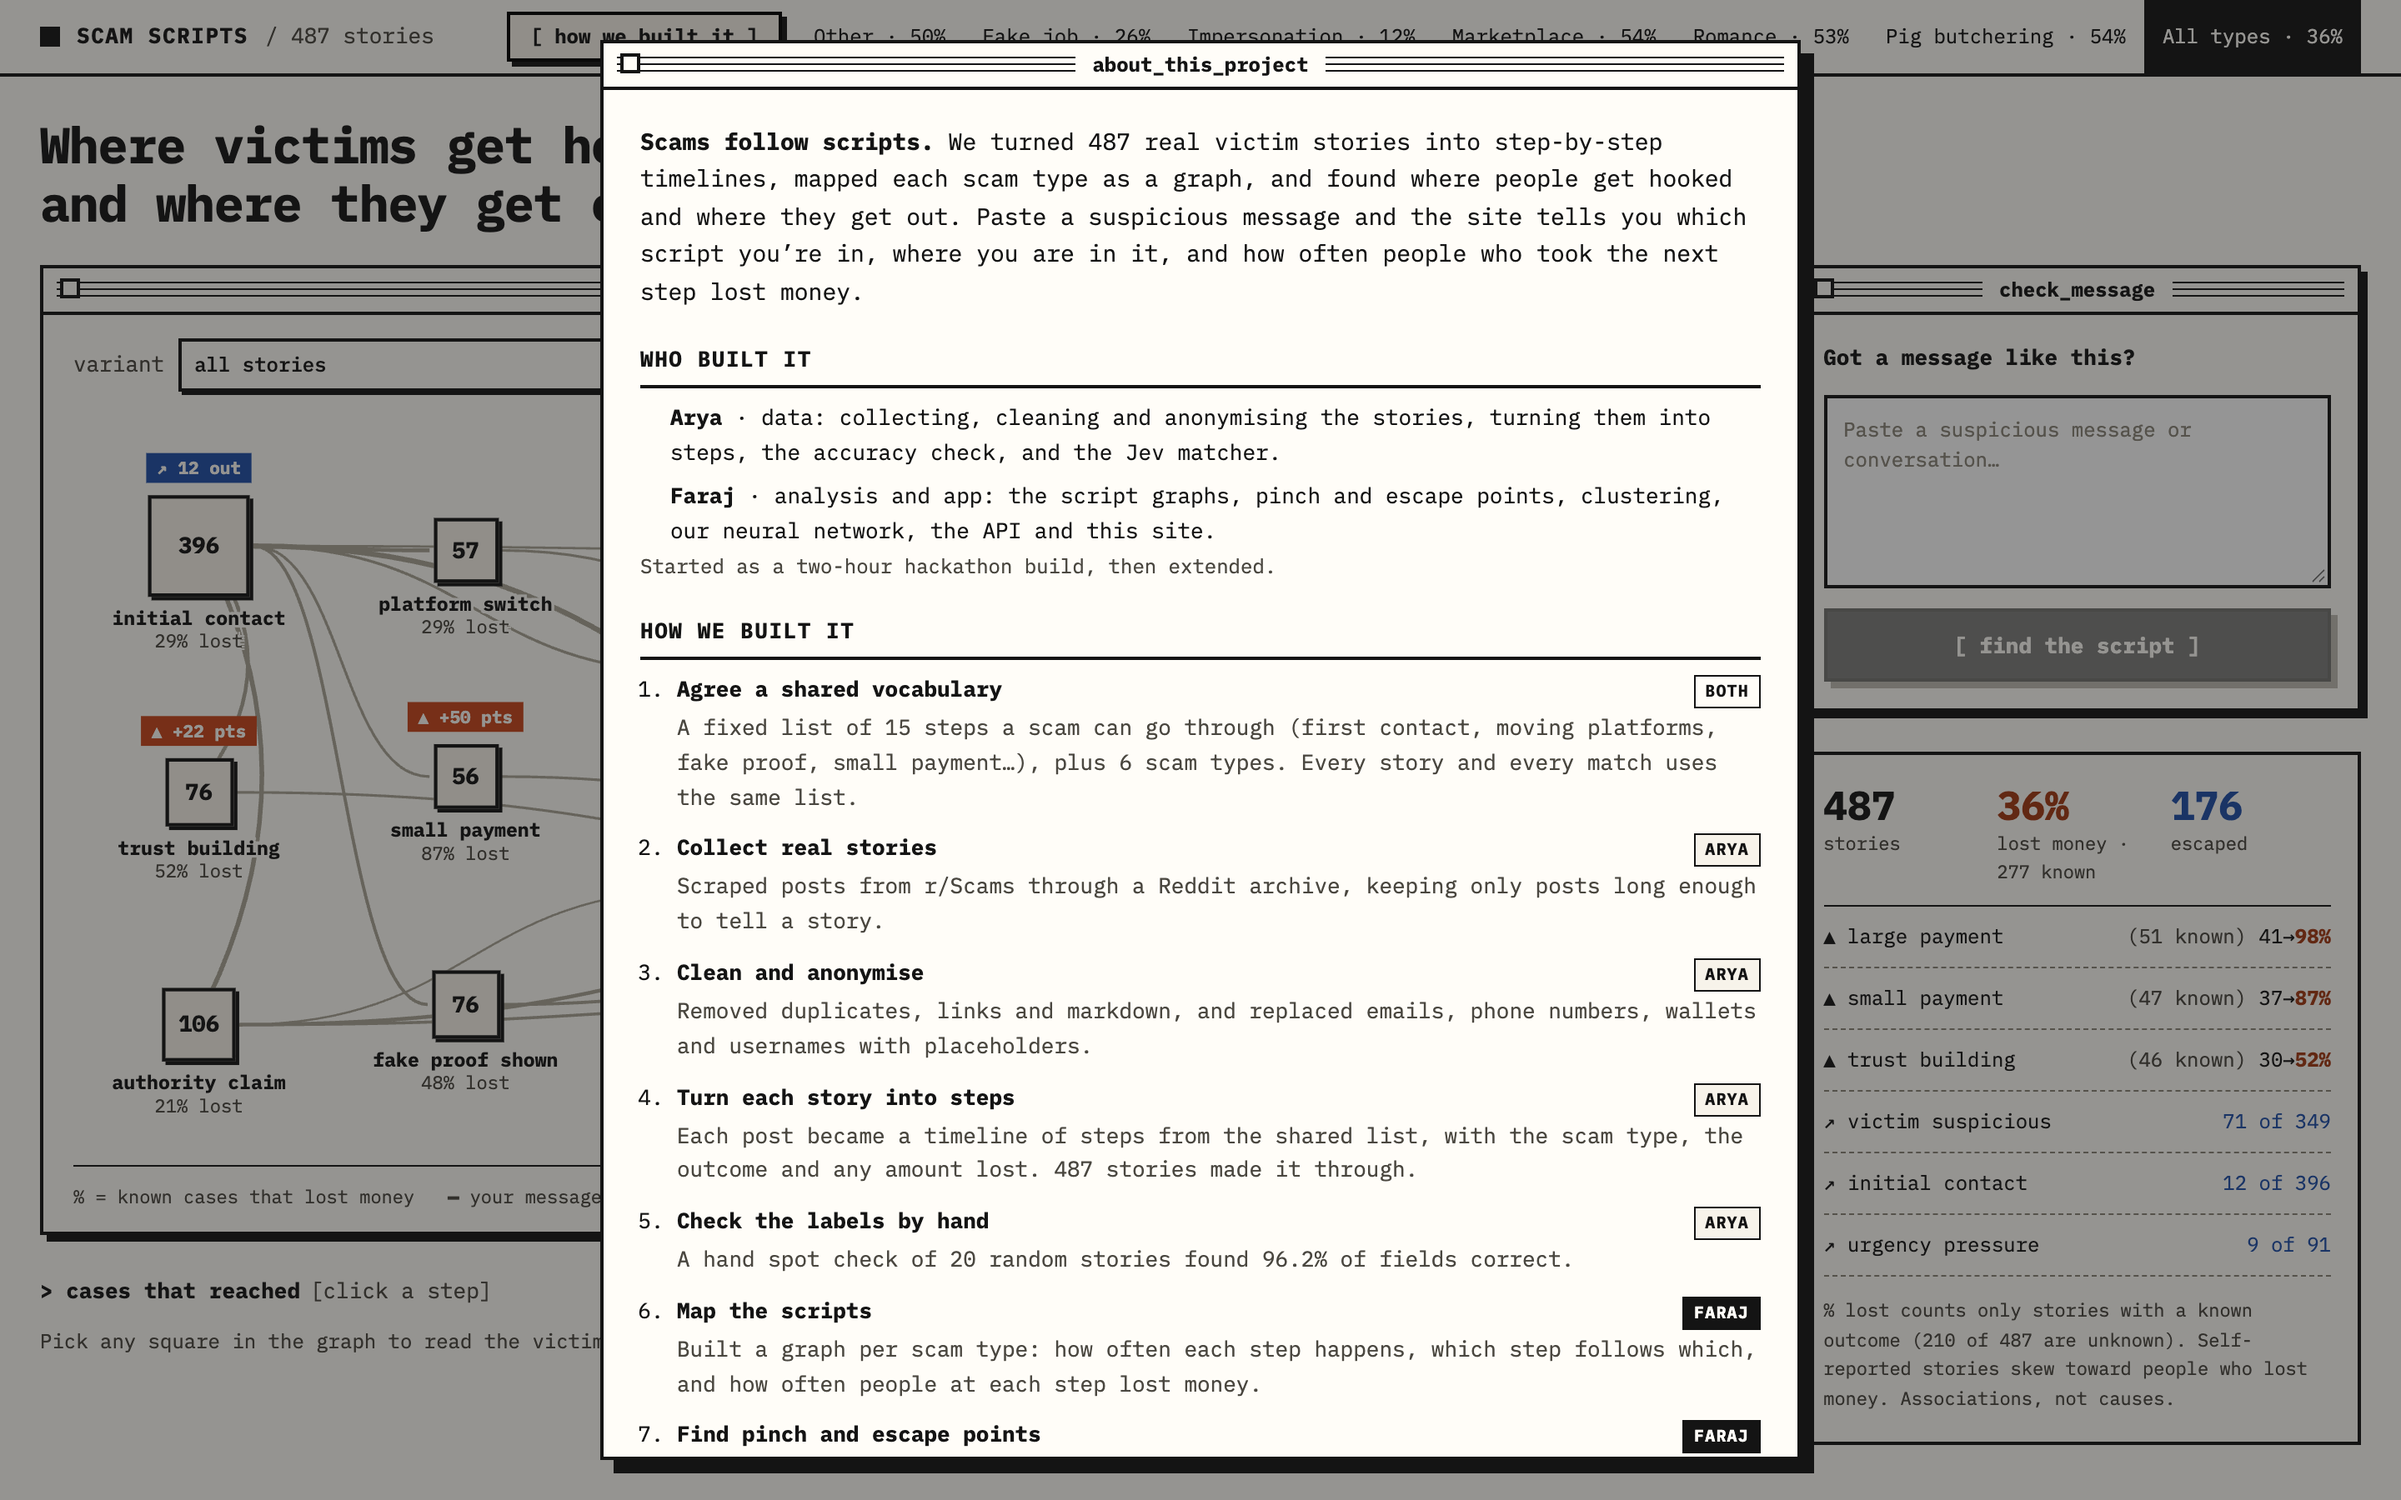
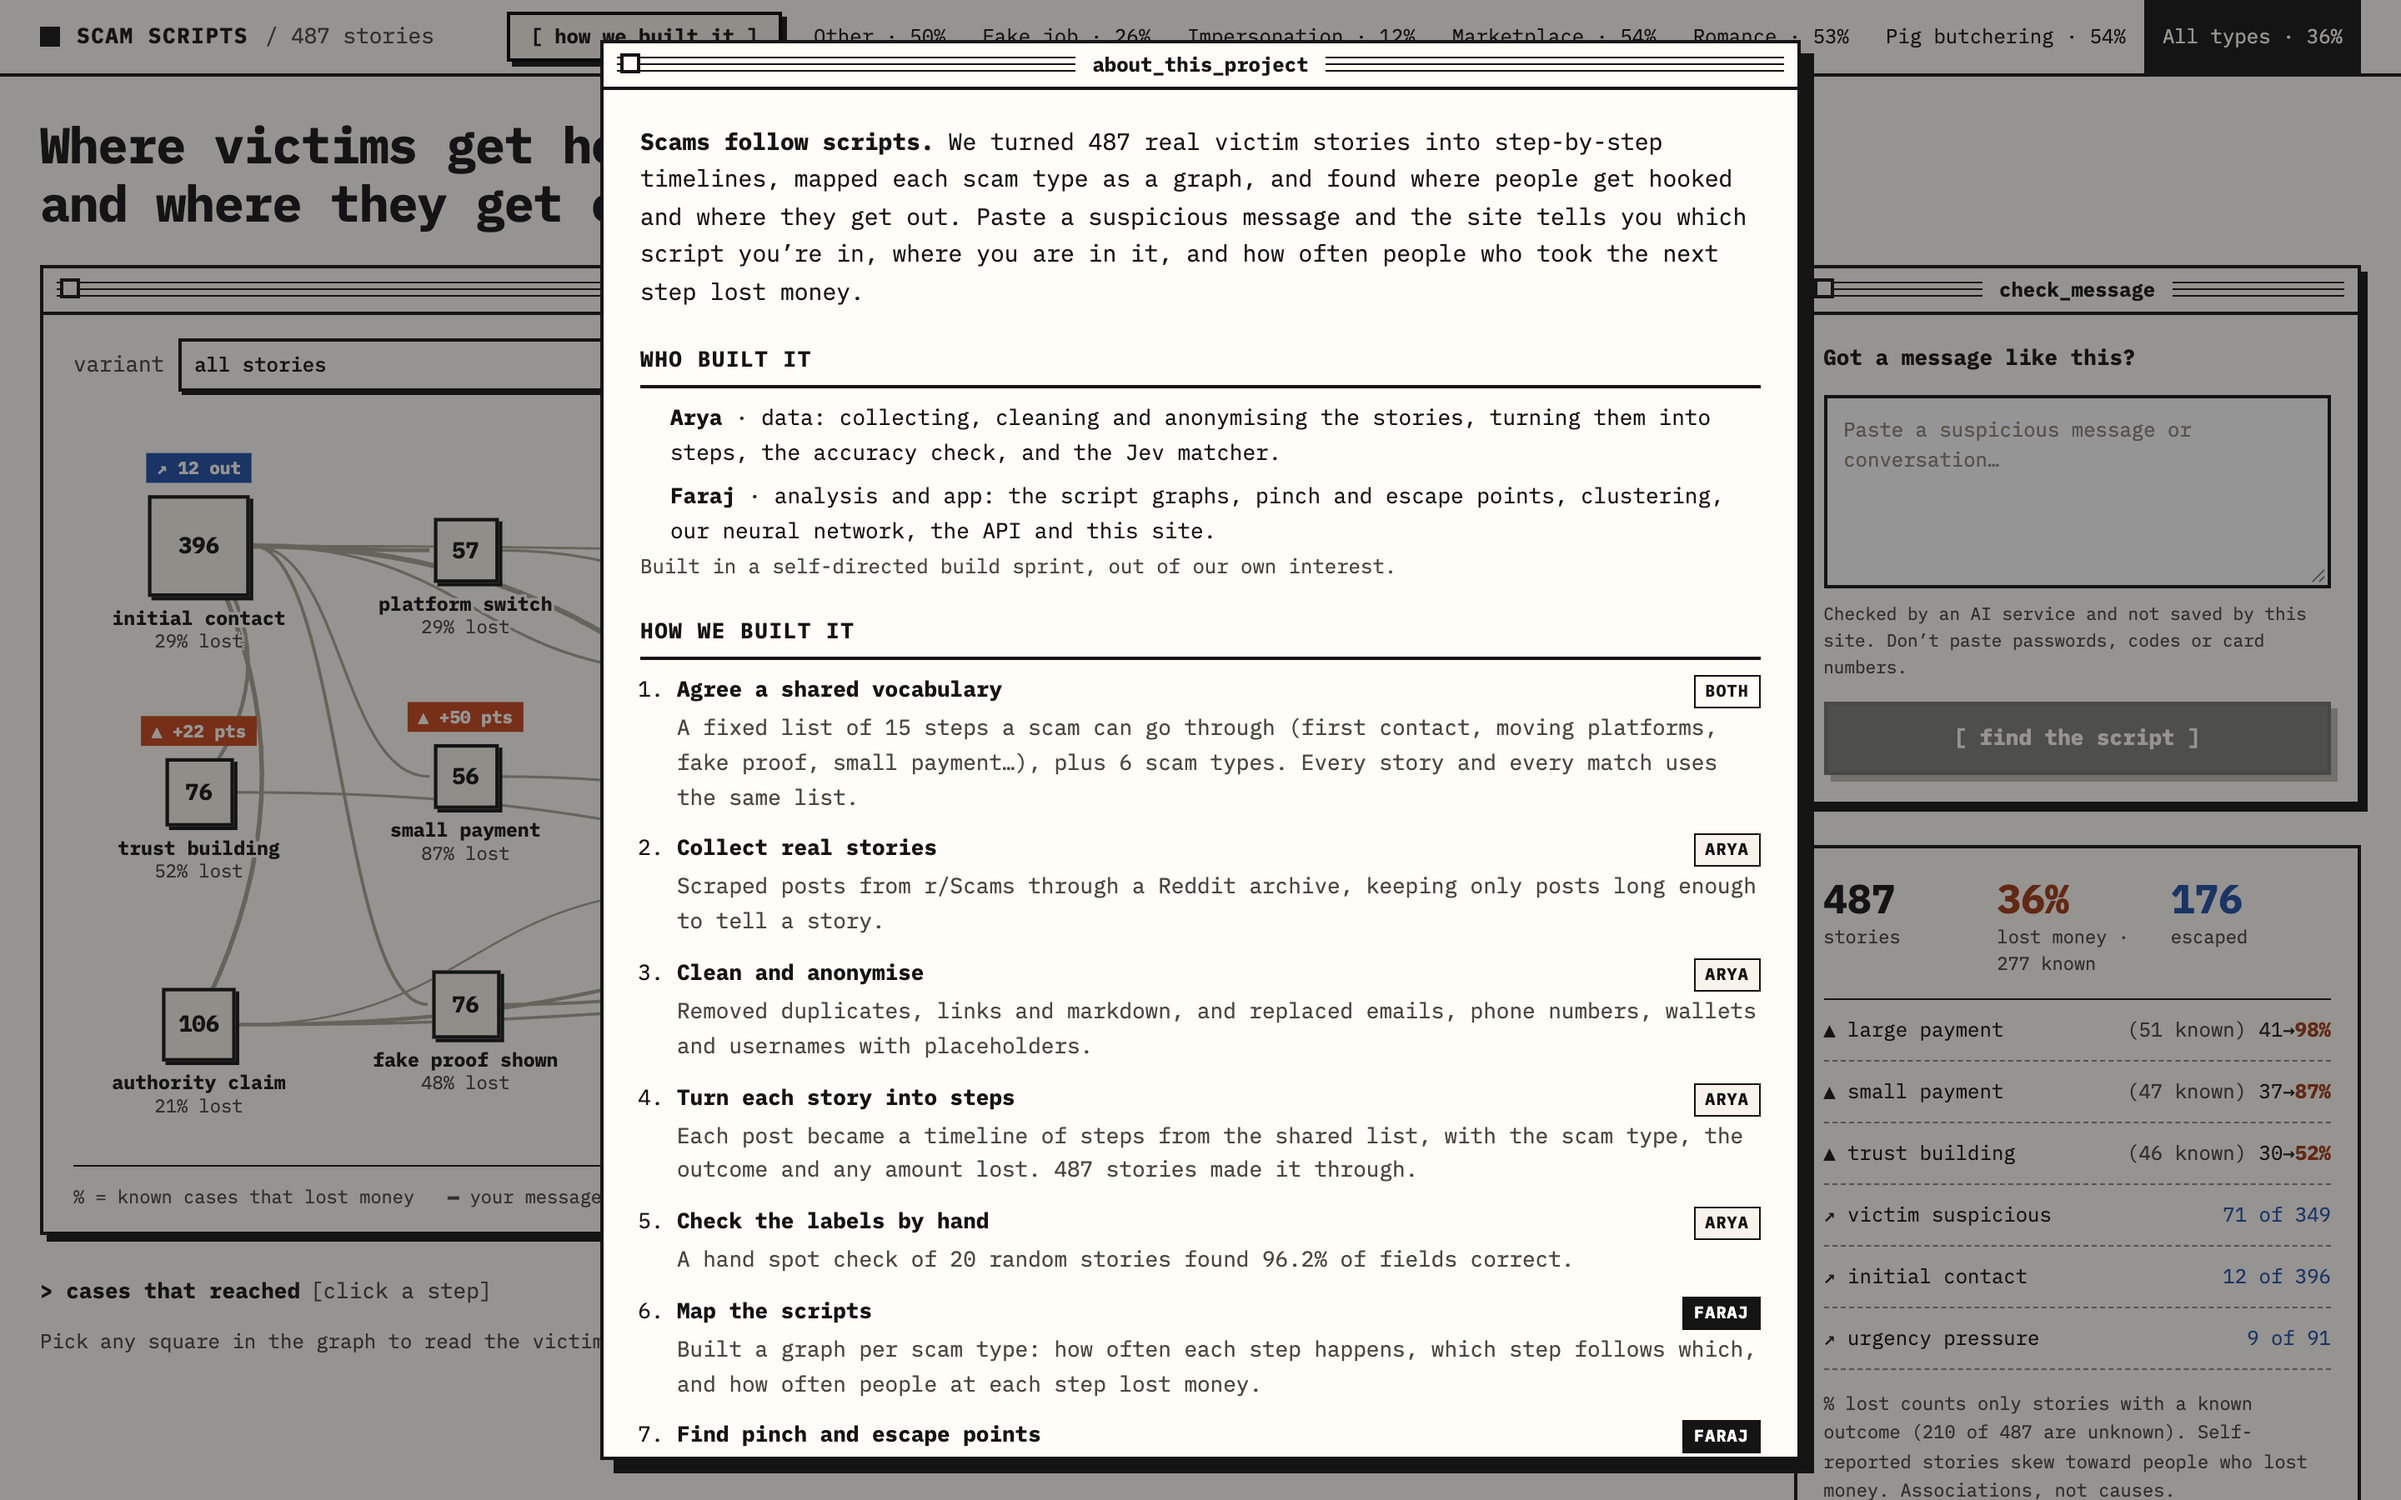
Reword the build story: a self-directed build sprint; drop tool mentions

Changed region(s): [[0.75, 0.4044, 1.0, 1.0], [0.3125, 0.3733, 0.4375, 0.4044], [0.4688, 0.3733, 0.5312, 0.4044]]

diff --git a/app/web/src/components/AboutDialog.tsx b/app/web/src/components/AboutDialog.tsx
@@ -58,7 +58,7 @@ const STEPS: { title: string; who: 'Arya' | 'Faraj' | 'Both'; text: string }[] =
   {
     title: 'Design and ship the site',
     who: 'Faraj',
-    text: 'Prototyped this retro look in Claude Design, then built it with React, React Flow and Tailwind on a FastAPI backend.',
+    text: 'Designed the retro look and built it with React, React Flow and Tailwind on a FastAPI backend.',
   },
 ]
 
@@ -106,7 +106,7 @@ export function AboutDialog({ open, onOpenChange, hint = false }: Props) {
                   neural network, the API and this site.
                 </li>
               </ul>
-              <p className="muted small">Started as a two-hour hackathon build, then extended.</p>
+              <p className="muted small">Built in a self-directed build sprint, out of our own interest.</p>
             </section>
 
             <section>

diff --git a/app/web/src/components/ClusterPicker.tsx b/app/web/src/components/ClusterPicker.tsx
@@ -23,7 +23,7 @@ interface Props {
 export function ClusterPicker({ clusters, value, onChange, disabled }: Props) {
   const a = clusters.agreement
   const agree = a
-    ? `Sequence clusters vs. the LLM's scam_type labels: purity ${pct(a.purity)}, ARI ${a.adjusted_rand.toFixed(2)} (0 ≈ chance, 1 = identical).`
+    ? `Sequence clusters vs. the scam-type labels: purity ${pct(a.purity)}, ARI ${a.adjusted_rand.toFixed(2)} (0 ≈ chance, 1 = identical).`
     : undefined
   const hint = disabled ? 'Clear the matched message to pick a variant' : agree
   // The hint must not sit on top of the open dropdown.

diff --git a/README.md b/README.md
@@ -4,7 +4,7 @@
 
 **Live site: [scam-script-mapper.vercel.app](https://scam-script-mapper.vercel.app)**
 
-Built by **Faraj** (analysis, model, API and site) and **Arya** (data pipeline and matcher). It started as a two-hour hackathon build and was extended after.
+Built by **Faraj** (analysis, model, API and site) and **Arya** (data pipeline and matcher). We built it in a self-directed build sprint, out of our own interest.
 
 ![Scam Scripts: the all-types script graph with pinch and escape points](app/docs/graph-overview.png)
 
@@ -137,5 +137,5 @@ analysis/model/  GRU, baselines, evaluation, learning curve     (Faraj)
 app/api/         FastAPI backend                                (Faraj)
 app/web/         React + React Flow frontend                    (Faraj)
 app/docs/        screenshots
-PLAN.md          the original 2-hour build plan
+PLAN.md          the original build plan
 ```
